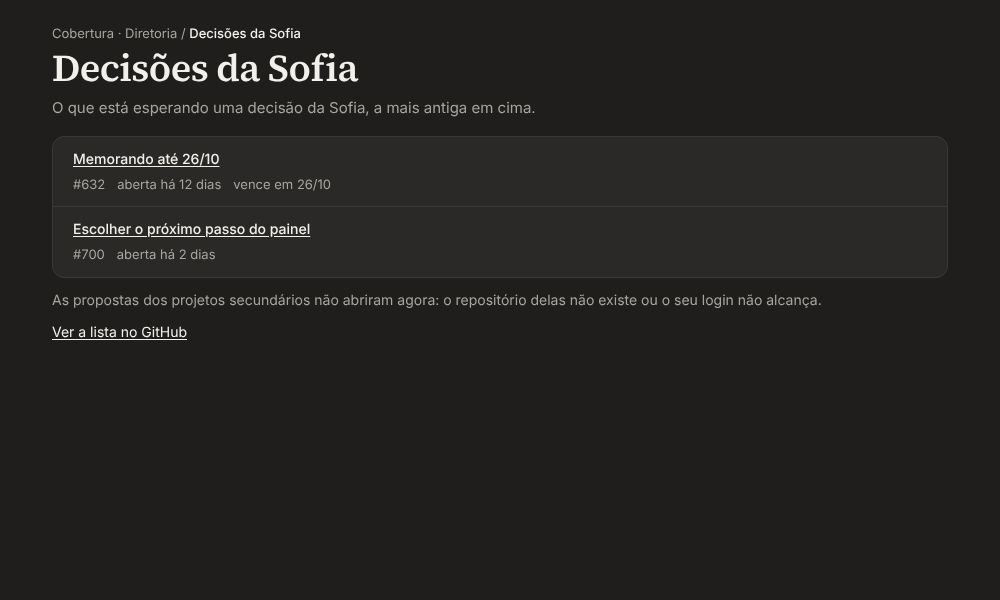
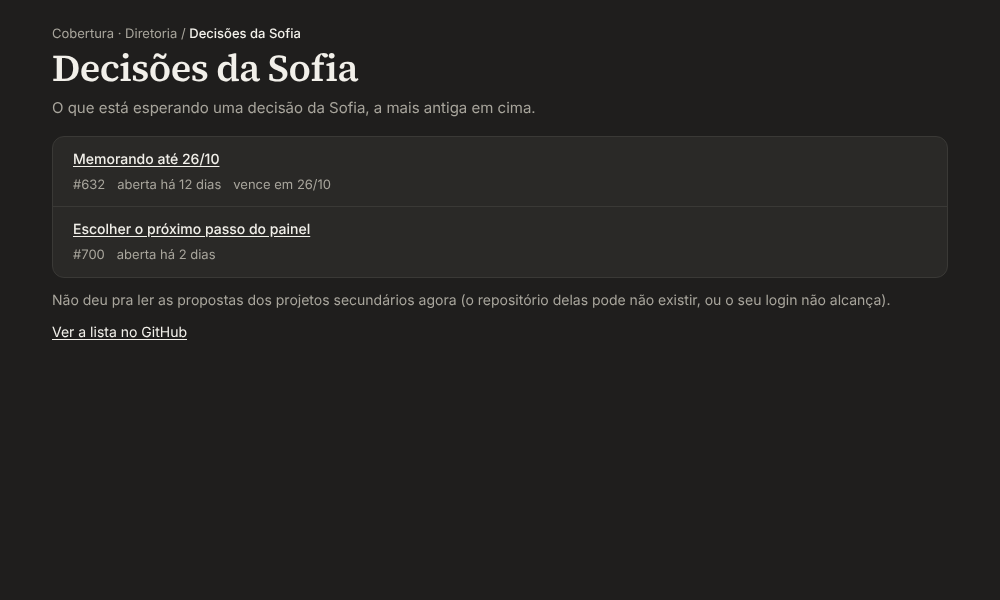
Painel, Decisões: achados da revisão (#732) e o relatório
Frase do corte neutra, link pras propostas, aviso mais neutro, issues nulo também é aviso, chave da linha testável.

Claude-Session: https://claude.ai/code/session_01AX2NNU35qbikwzFc1P9nrd

Changed region(s): [[0.031, 0.48, 0.899, 0.51]]

diff --git a/painel/src/componentes/PaginaDecisoes.test.tsx b/painel/src/componentes/PaginaDecisoes.test.tsx
@@ -1,7 +1,7 @@
 import { renderToString } from "react-dom/server";
 import { describe, expect, it } from "vitest";
 import type { RespostaDasDecisoes } from "../../worker/decisoes";
-import { carregarDecisoes, ConteudoDasDecisoes, diasAberta, ordenarDecisoes, PaginaDecisoes, prazoDoTitulo, textoDosDias, textoDoPrazo, type EstadoDasDecisoes } from "./PaginaDecisoes";
+import { carregarDecisoes, chaveDaDecisao, ConteudoDasDecisoes, diasAberta, ordenarDecisoes, PaginaDecisoes, prazoDoTitulo, textoDosDias, textoDoPrazo, type EstadoDasDecisoes } from "./PaginaDecisoes";
 
 // Datas locais (o dia que a pessoa vê), em qualquer fuso do computador.
 const local = (a: number, m: number, d: number, h = 12, min = 0) => new Date(a, m - 1, d, h, min);
@@ -188,9 +188,9 @@ describe("ConteudoDasDecisoes (#648)", () => {
     expect(h).not.toContain("Mostrando as");
     const cem = Array.from({ length: 100 }, (_, i) => decisao(i + 1, `D${i + 1}`));
     const mais = html(pronto({ decisoes: cem, total: 130, maisDoQueCabe: true }));
-    expect(mais).toContain("Mostrando as 100 mais antigas de 130.");
+    expect(mais).toContain("Mostrando 100 de 130; o resto está no GitHub.");
     // O número é o que veio na lista, não uma cópia do 100 da consulta.
-    expect(html(pronto({ decisoes: cem.slice(0, 98), total: 130, maisDoQueCabe: true }))).toContain("Mostrando as 98 mais antigas de 130.");
+    expect(html(pronto({ decisoes: cem.slice(0, 98), total: 130, maisDoQueCabe: true }))).toContain("Mostrando 98 de 130; o resto está no GitHub.");
   });
 
   it("carregando, sessão acabada e erro", () => {
@@ -255,7 +255,7 @@ const PROPOSTAS = "https://github.com/sakura-corp/secundarios/issues/";
 const propostaNaLista = (numero: number, titulo: string, abertaEm = iso(2026, 10, 11)) => ({ numero, titulo, abertaEm, url: `${PROPOSTAS}${numero}`, proposta: true as const });
 
 describe("as propostas na página (#732)", () => {
-  it("a proposta aparece com o selo 'Proposta' e o link, na ordem por data junto das decisões", () => {
+  it("a proposta aparece com o selo 'Proposta' e o link, no lugar em que chegou na lista (a ordem é do carregarDecisoes)", () => {
     const h = html(pronto({ decisoes: [decisao(10, "Decisão velha", iso(2026, 10, 1)), propostaNaLista(3, "Proposta do meio", iso(2026, 10, 5)), decisao(20, "Decisão nova", iso(2026, 10, 9))], total: 3 }));
     expect(h.indexOf("Decisão velha")).toBeLessThan(h.indexOf("Proposta do meio"));
     expect(h.indexOf("Proposta do meio")).toBeLessThan(h.indexOf("Decisão nova"));
@@ -266,22 +266,29 @@ describe("as propostas na página (#732)", () => {
     expect(linha).toContain(">Proposta<");
   });
 
-  it("decisão e proposta com o mesmo número aparecem as duas", () => {
+  it("decisão e proposta com o mesmo número aparecem as duas, cada uma com a sua chave", () => {
     const h = html(pronto({ decisoes: [decisao(5, "A decisão 5"), propostaNaLista(5, "A proposta 5")], total: 2 }));
     expect(h).toContain("A decisão 5");
     expect(h).toContain("A proposta 5");
+    expect(chaveDaDecisao(decisao(5, "A"))).not.toBe(chaveDaDecisao(propostaNaLista(5, "B")));
+  });
+
+  it("o link pras propostas no GitHub só quando elas abriram", () => {
+    const LINK = "https://github.com/sakura-corp/secundarios/issues?q=is%3Aissue+is%3Aopen+label%3Aproposta%3Aesperando-sofia";
+    expect(html(pronto({ decisoes: [decisao(1, "A")], total: 1 }))).toContain(`href="${LINK}"`);
+    expect(html(pronto({ decisoes: [decisao(1, "A")], total: 1, propostasFora: true }))).not.toContain(LINK);
   });
 
   it("sem o repositório das propostas: as decisões de hoje e um aviso discreto", () => {
     const h = html(pronto({ decisoes: [decisao(10, "Escolher o banco")], total: 1, propostasFora: true }));
     expect(h).toContain("Escolher o banco");
-    expect(h).toContain("As propostas dos projetos secundários não abriram agora");
+    expect(h).toContain("Não deu pra ler as propostas dos projetos secundários agora");
     expect(h).not.toContain('role="alert"');
-    expect(html(pronto({ decisoes: [decisao(10, "Escolher o banco")], total: 1 }))).not.toContain("As propostas dos projetos secundários");
+    expect(html(pronto({ decisoes: [decisao(10, "Escolher o banco")], total: 1 }))).not.toContain("Não deu pra ler as propostas");
     // Lista vazia de decisões continua dizendo que não tem nada, e o aviso aparece também.
     const vazia = html(pronto({ propostasFora: true }));
     expect(vazia).toContain("Nada esperando a Sofia agora.");
-    expect(vazia).toContain("As propostas dos projetos secundários não abriram agora");
+    expect(vazia).toContain("Não deu pra ler as propostas dos projetos secundários agora");
   });
 
   it("carregarDecisoes guarda a marca de proposta e o aviso; ordena por data, empate a decisão antes", async () => {

diff --git a/painel/src/componentes/PaginaDecisoes.tsx b/painel/src/componentes/PaginaDecisoes.tsx
@@ -20,6 +20,9 @@ type Buscar = (endereco: string, init?: RequestInit) => Promise<Response>;
 const ERRO_DO_GITHUB = "Não deu pra buscar as decisões no GitHub agora.";
 const ERRO_DE_CONEXAO = "Sem conexão com o painel. Confira a internet.";
 const TODAS_NO_GITHUB = "https://github.com/sakura-corp/sakura-system-ace/issues?q=is%3Aissue+is%3Aopen+label%3Asofia";
+const PROPOSTAS_NO_GITHUB = "https://github.com/sakura-corp/secundarios/issues?q=is%3Aissue+is%3Aopen+label%3Aproposta%3Aesperando-sofia";
+const CLASSE_DO_LINK =
+  "underline underline-offset-2 hover:text-texto focus-visible:outline-2 focus-visible:outline-offset-2 focus-visible:outline-destaque";
 const DIA_EM_MS = 86_400_000;
 /** O prazo aparece em destaque quando faltam tantos dias ou menos. */
 const DIAS_DO_DESTAQUE = 3;
@@ -92,6 +95,9 @@ export function ordenarDecisoes(decisoes: Decisao[]): Decisao[] {
 }
 
 const dois = (n: number) => String(n).padStart(2, "0");
+
+/** A chave da linha: o número sozinho repete entre uma decisão e uma proposta (são de repositórios diferentes). */
+export const chaveDaDecisao = (d: Decisao) => `${d.proposta ? "proposta" : "decisao"}-${d.numero}`;
 
 function valida(d: unknown): d is Decisao {
   if (typeof d !== "object" || d === null) return false;
@@ -213,25 +219,25 @@ export function ConteudoDasDecisoes({ estado, agora, tentarDeNovo }: PropsDoCont
       ) : (
         <ol className="min-w-0 divide-y divide-borda rounded-xl border border-borda bg-cartao">
           {decisoes.map((d) => (
-            <LinhaDaDecisao key={`${d.proposta ? "proposta" : "decisao"}-${d.numero}`} decisao={d} agora={agora} />
+            <LinhaDaDecisao key={chaveDaDecisao(d)} decisao={d} agora={agora} />
           ))}
         </ol>
       )}
       {propostasFora ? (
         <p className="mt-3 text-sm text-texto-2">
-          As propostas dos projetos secundários não abriram agora: o repositório delas não existe ou o seu login não alcança.
+          Não deu pra ler as propostas dos projetos secundários agora (o repositório delas pode não existir, ou o seu login não alcança).
         </p>
       ) : null}
-      {maisDoQueCabe ? <p className="mt-3 text-sm text-texto-2">Mostrando as {decisoes.length} mais antigas de {total}.</p> : null}
-      <p className="mt-3 text-sm">
-        <a
-          href={TODAS_NO_GITHUB}
-          target="_blank"
-          rel="noopener noreferrer"
-          className="underline underline-offset-2 hover:text-texto focus-visible:outline-2 focus-visible:outline-offset-2 focus-visible:outline-destaque"
-        >
+      {maisDoQueCabe ? <p className="mt-3 text-sm text-texto-2">Mostrando {decisoes.length} de {total}; o resto está no GitHub.</p> : null}
+      <p className="mt-3 flex flex-wrap gap-x-4 gap-y-1.5 text-sm">
+        <a href={TODAS_NO_GITHUB} target="_blank" rel="noopener noreferrer" className={CLASSE_DO_LINK}>
           Ver a lista no GitHub<span className="sr-only"> (abre em aba nova)</span>
         </a>
+        {propostasFora ? null : (
+          <a href={PROPOSTAS_NO_GITHUB} target="_blank" rel="noopener noreferrer" className={CLASSE_DO_LINK}>
+            Ver as propostas no GitHub<span className="sr-only"> (abre em aba nova)</span>
+          </a>
+        )}
       </p>
     </section>
   );

diff --git a/painel/worker/decisoes.test.ts b/painel/worker/decisoes.test.ts
@@ -130,7 +130,9 @@ describe("decisoesDosDados (#648)", () => {
     const vazias = { issues: { totalCount: 0, nodes: [] } };
     expect(decisoesDosDados({ repository: null, propostas: vazias })).toEqual({ decisoes: [], total: 0 });
     expect(decisoesDosDados({ repository: { issues: null }, propostas: vazias })).toEqual({ decisoes: [], total: 0 });
-    expect(decisoesDosDados({ repository: { issues: { totalCount: 0, nodes: null } }, propostas: { issues: null } })).toEqual({ decisoes: [], total: 0 });
+    expect(decisoesDosDados({ repository: { issues: { totalCount: 0, nodes: null } }, propostas: { issues: { totalCount: 0, nodes: null } } })).toEqual({ decisoes: [], total: 0 });
+    // As propostas sem a lista de issues: não dá pra dizer que não tem proposta, então é aviso.
+    expect(decisoesDosDados({ repository: null, propostas: { issues: null } })).toEqual({ decisoes: [], total: 0, propostasFora: true });
   });
 });
 

diff --git a/painel/worker/decisoes.ts b/painel/worker/decisoes.ts
@@ -89,6 +89,7 @@ export function decisoesDosDados(dados: DadosDasDecisoes): RespostaDasDecisoes {
     decisoes: lista,
     total: decisoes.total + propostas.total,
     ...(faltou ? { maisDoQueCabe: true as const } : {}),
-    ...(dados.propostas ? {} : { propostasFora: true as const }),
+    // Pelo esquema do GitHub, um erro em `issues` sobe até `propostas`; mesmo assim, `issues` nulo também é aviso.
+    ...(dados.propostas?.issues ? {} : { propostasFora: true as const }),
   };
 }

diff --git a/docs/relatorios/2026-10-22-tarefa-732-backend.md b/docs/relatorios/2026-10-22-tarefa-732-backend.md
@@ -1,0 +1,50 @@
+# Relatório: tarefa #732, chefe backend
+
+- **Tarefa**: #732, propostas esperando a Sofia em "Decisões da Sofia"
+- **Chefe**: backend
+- **Data**: 2026-10-22
+- **PR**: o desta branch (`claude/tarefa-732-propostas-decisoes`)
+- **Jeito**: aberta pela /coordenar
+
+## O que cada agente fez
+- Sessão mãe: planejou, escreveu os testes primeiro (vistos reprovar), a consulta, a página e as fotos.
+- Revisor (ajudante forte): revisão do zero do diff; nenhum defeito grave, 6 achados baixos (todos tratados) e 1 aviso pra Sofia.
+
+## Modelos usados
+- Planejar, consulta e página: forte (claude-opus-5-5), esforço médio. A issue pedia ajudante médio pra "consulta e página"; fiz na mãe porque o plano e o código eram pequenos (4 arquivos).
+- Revisão final: forte (`ajudante-forte`), esforço alto.
+
+## Sessões filhas
+- nenhuma
+
+## Gasto
+- **Uso da sessão mãe**: não medido (a sessão não tem o arquivo de uso à mão).
+- **Ajudantes**: 1 (forte, esforço alto, cerca de 89 mil tokens, pelo aviso de término).
+- **Sessões filhas**: nenhuma
+- **`/goal`**: ligado no meio da tarefa (chegou depois do primeiro commit); como parou, a coordenadora confere. A sessão também parou uma vez por limite de uso (20h30 UTC) e retomou quando a coordenadora avisou.
+
+## O que testei e VI reprovar
+- Worker: 8 testes novos reprovaram antes do código (consulta sem o apelido `propostas`, sem a marca de proposta, sem a ordem por data, sem o aviso `propostasFora`, e a rota com o `secundarios` inexistente).
+- Página: 3 testes novos reprovaram antes do código (selo "Proposta", aviso discreto, `carregarDecisoes` guardando a marca e o aviso).
+- Depois da revisão: tirei a defesa do `issues: null` e o teste "tudo null" reprovou; voltei a chave da linha pra só o número e o teste da chave reprovou. Voltei os dois.
+
+## O que passou sem eu ter visto reprovar
+- O texto novo de "Mostrando N de T" e o link "Ver as propostas no GitHub" (o teste foi escrito junto com a troca).
+
+## O que ficou de fora
+- Botão de aprovar ou devolver (a issue manda não fazer).
+- A chamada real ao GitHub: o comportamento do repositório inexistente (só a parte `propostas` volta nula, com erro `NOT_FOUND`) vem do jeito documentado do GraphQL e foi simulado no teste da rota.
+
+## O que depende de alguém
+- **Sofia**: depois de publicar o painel, criar uma proposta de teste com `proposta:esperando-sofia` no `secundarios` e ver na página.
+- **Sofia**: se o app do GitHub do painel estiver instalado em "repositórios escolhidos", o `secundarios` precisa entrar nessa lista, senão o aviso aparece sempre. Quem da equipe não tem acesso ao `secundarios` vai ver o aviso (é o pedido).
+- Nada de banco: o painel não ganhou migration.
+
+## Onde parou
+Terminei.
+
+## Como eu agi
+- **O que a skill me ajudou a fazer**: o "teste visto reprovar" pegou que o teste da chave repetida não provava nada (o render do servidor do React não avisa chave repetida); virou uma função pequena testada direto.
+- **Onde eu errei ou tive que adivinhar**: a issue proíbe mexer no `worker/index.ts`; resolvi com um apelido na mesma consulta GraphQL em vez de uma segunda chamada. As fotos ficaram em `docs/relatorios/fotos/tarefa-732/`, como nas #648 a #650, apesar do "nada em docs/" da issue (li como "nada de documentação do projeto").
+- **O que faltou na skill**: o painel não tem `lint` próprio (o da raiz ignora `painel/`). Rodei o eslint da raiz com `--no-ignore` nos arquivos mexidos: 0 erros, só os avisos de "fast refresh" que o arquivo já tinha.
+- **Sugestão de ajuste (opcional)**: dizer na skill que, no painel, "lint" é o eslint da raiz com `--no-ignore` nos arquivos mexidos.
